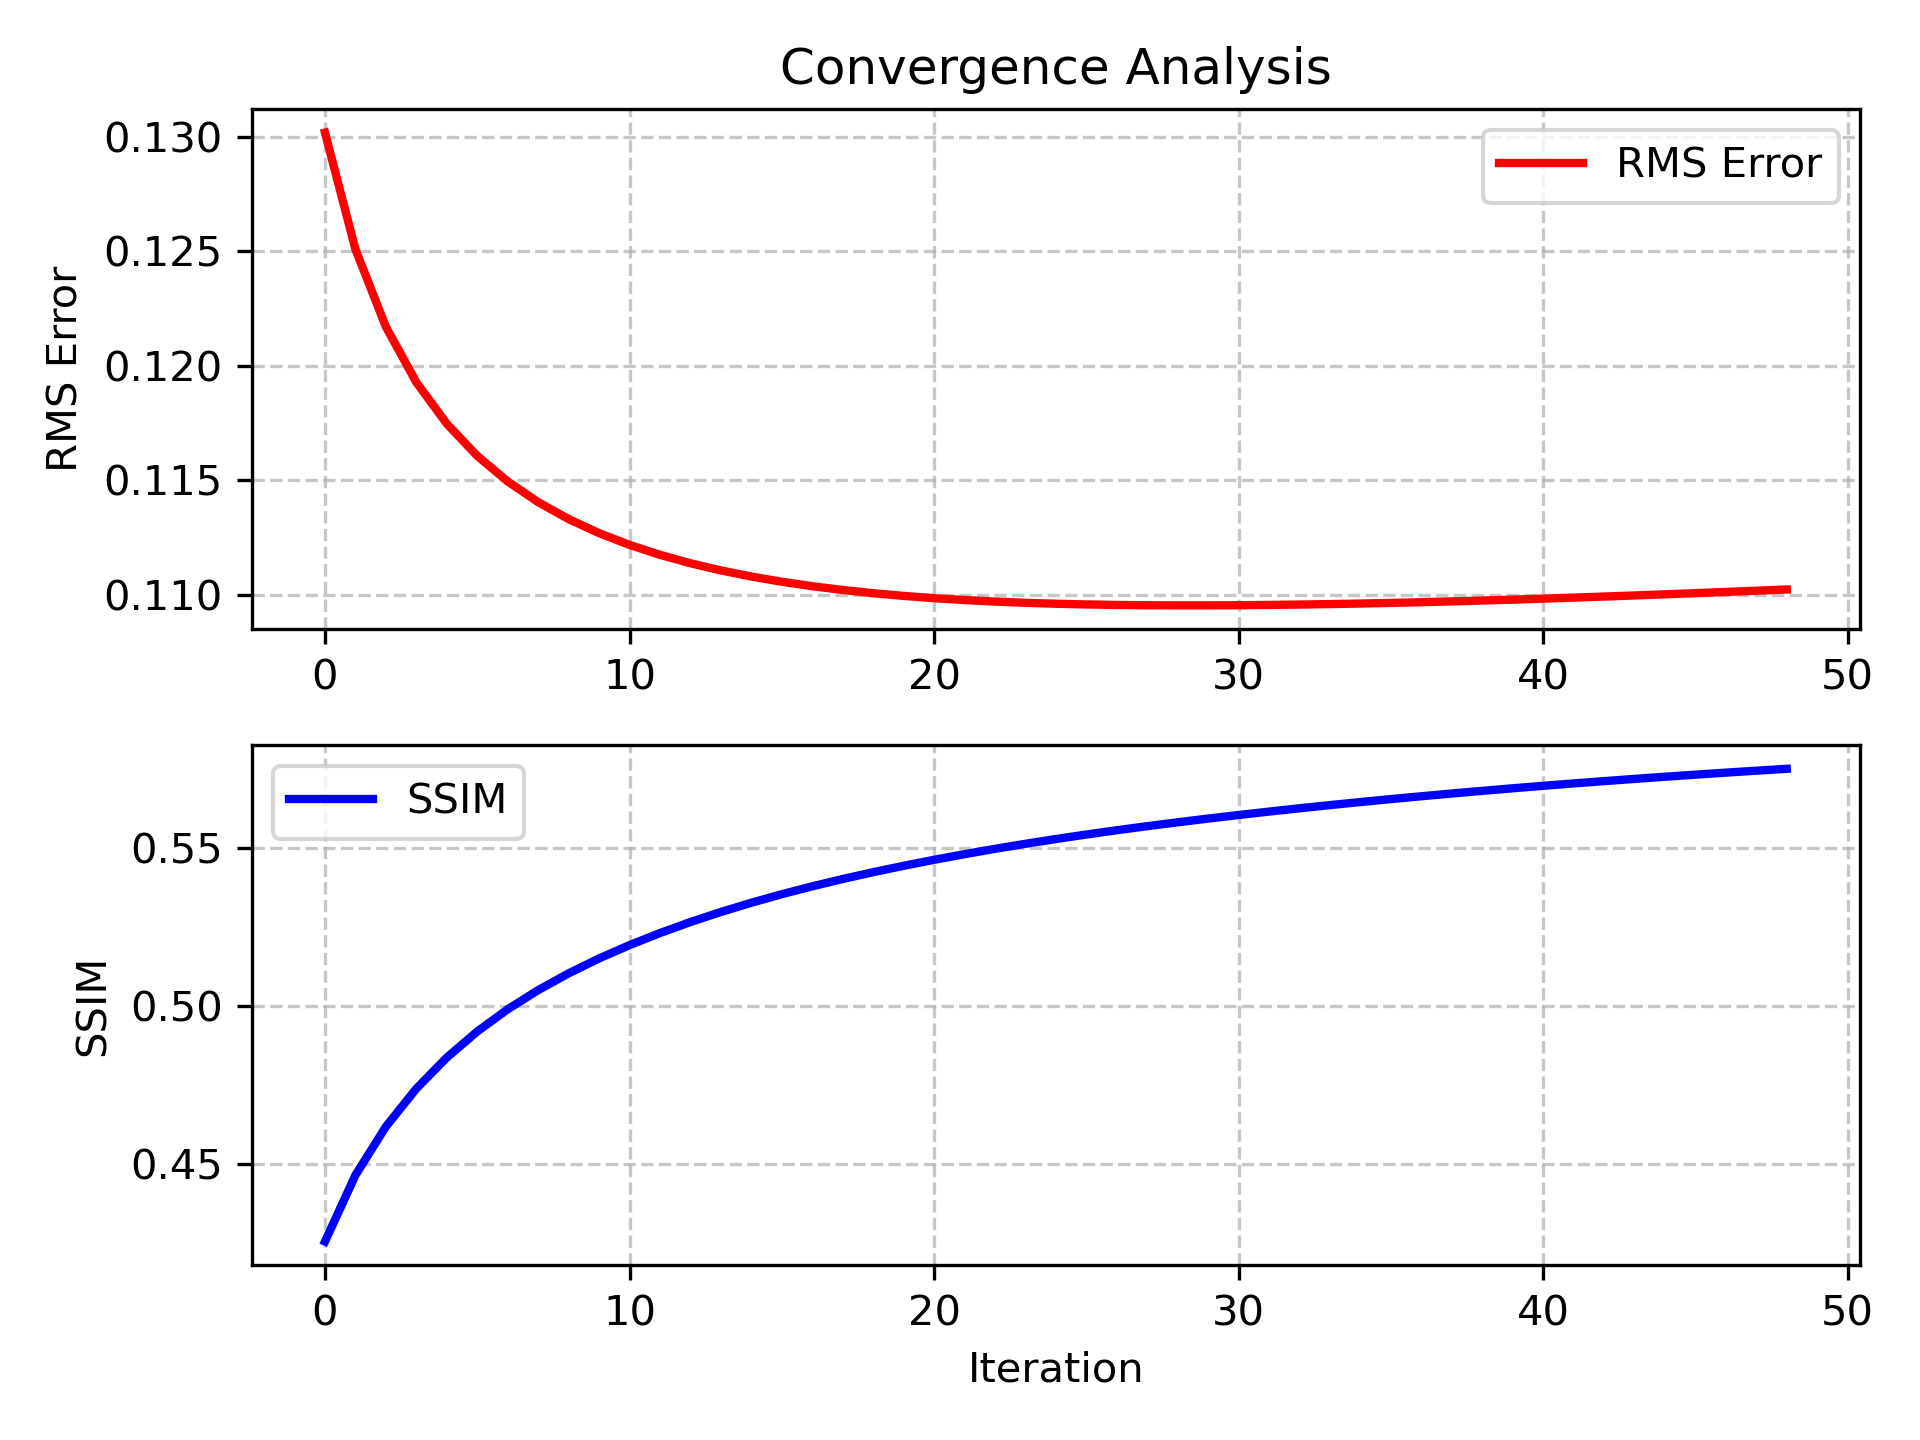
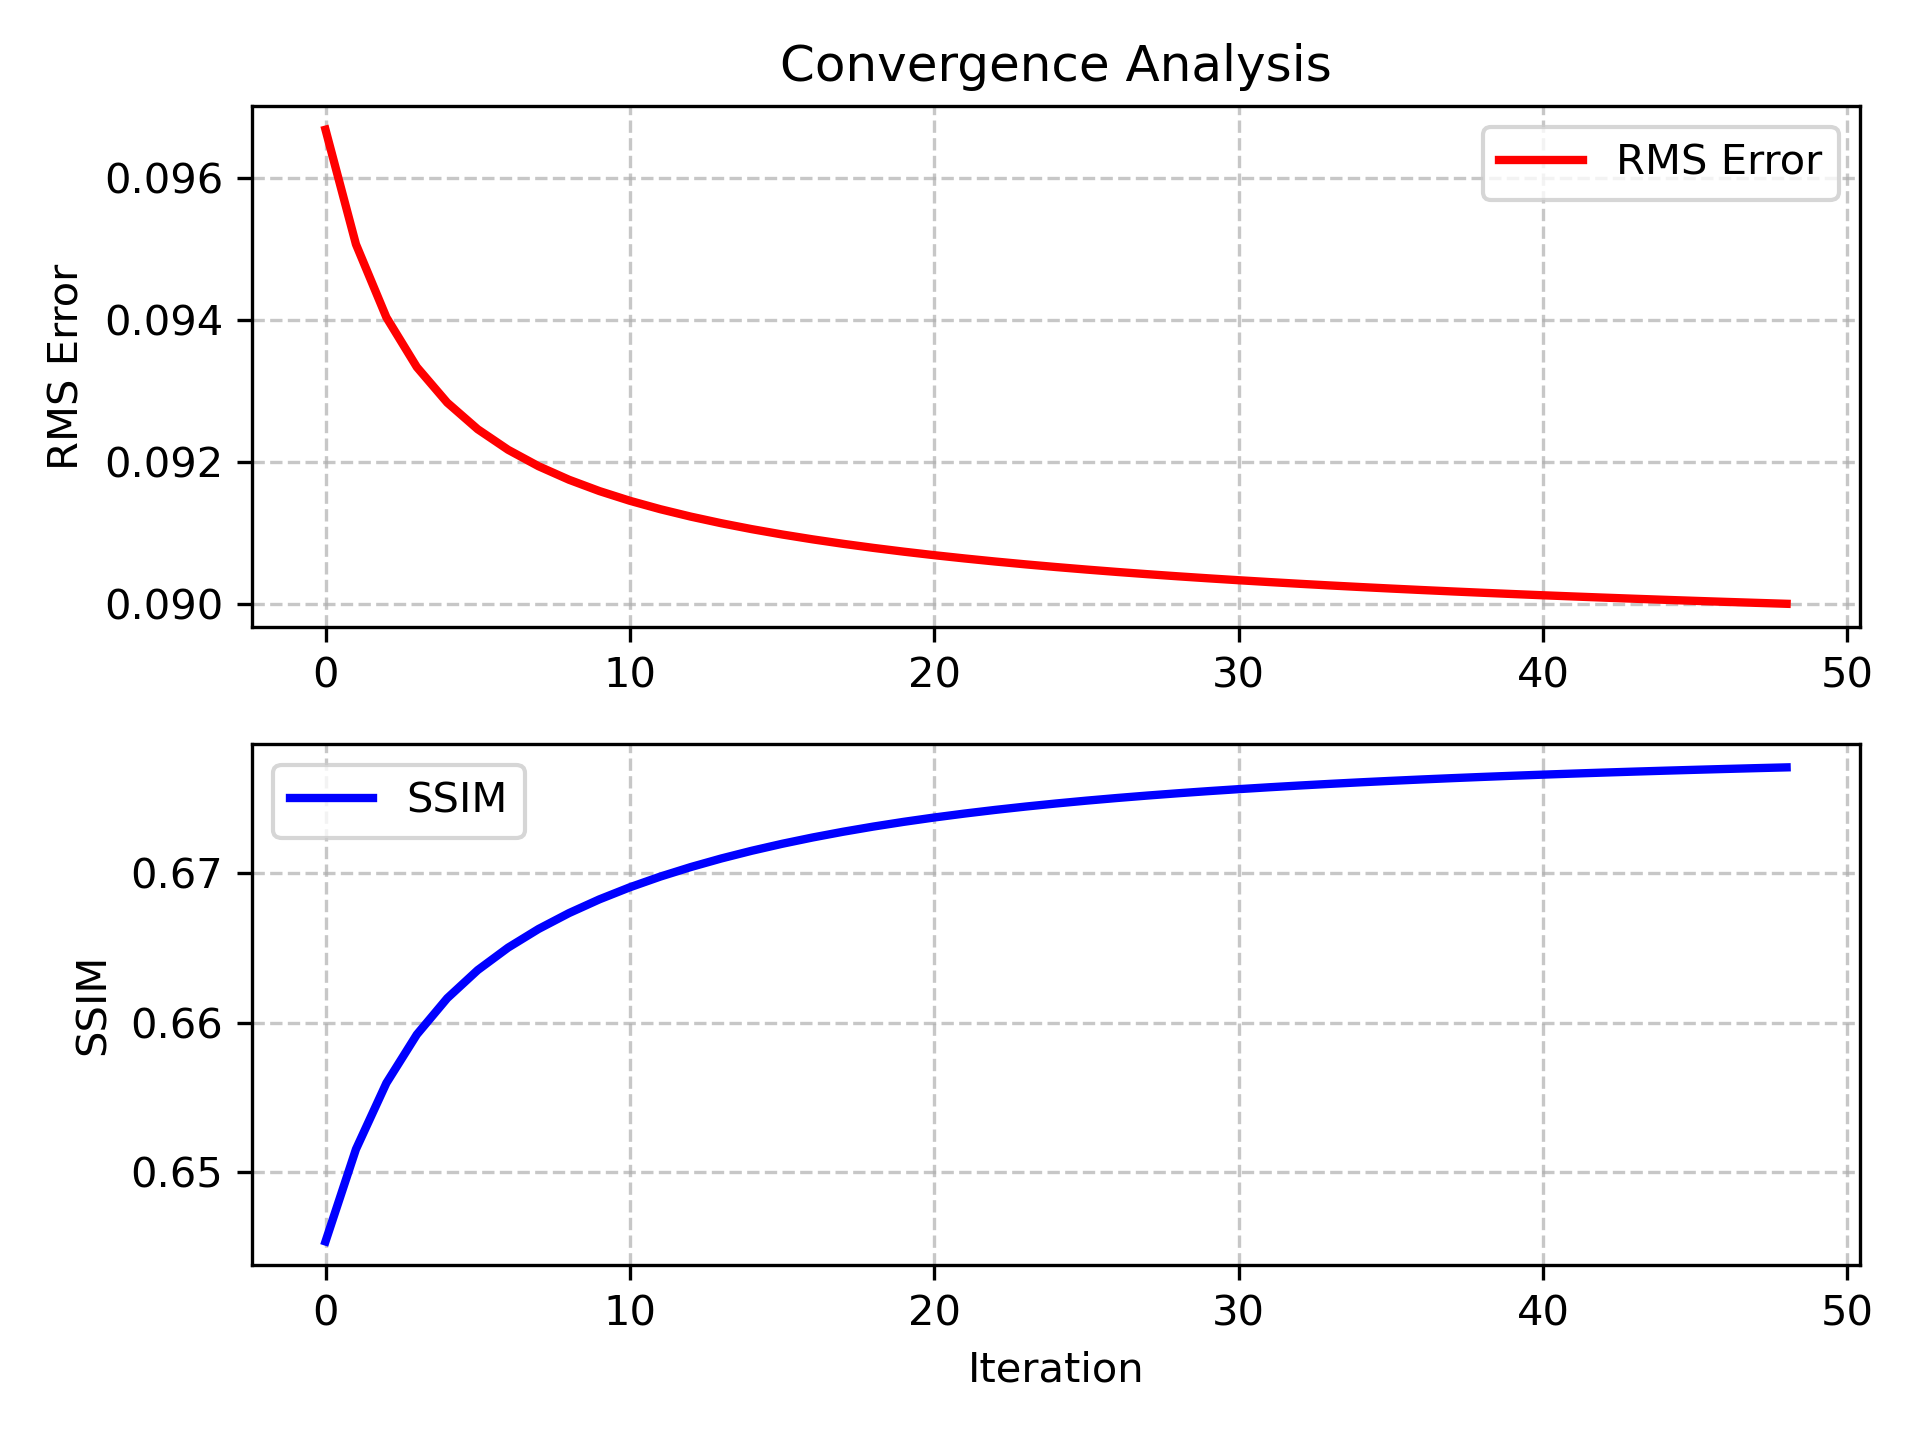
1

diff --git a/Rayleigh criterion/Rayleigh.py b/Rayleigh criterion/Rayleigh.py
@@ -1,15 +1,17 @@
 import numpy as np
 import matplotlib.pyplot as plt
-from numpy.fft import fft2, ifft2, fftshift, ifftshift
+from numpy.fft import fft2, ifft2, fftshift, ifftshift, fft, fftfreq
 from PIL import Image
 from skimage.metrics import structural_similarity as ssim
 from skimage.transform import downscale_local_mean
 
+# --- Read image and normalization ---
 def load_and_normalize_image(filepath):
     image = Image.open(filepath).convert('L')
     grayscale_data = np.array(image, dtype=np.float32)
     return (grayscale_data - grayscale_data.min()) / (grayscale_data.max() - grayscale_data.min())
 
+# --- Plot image ---
 def plot_image(amplitude,title):
     plt.figure(figsize=(6, 6))
     plt.imshow(amplitude, cmap='gray')
@@ -18,6 +20,7 @@ def plot_image(amplitude,title):
     plt.axis('off')
     plt.show()
 
+# --- Filter image ---
 def bandlimit_filter(image, pixelSize):
     N = image.shape[0]
     F = fftshift(fft2(image))
@@ -32,24 +35,30 @@ def bandlimit_filter(image, pixelSize):
     image_filtered = ifft2(ifftshift(F_filtered))
     return image_filtered
 
-def Transfer_function(W, H, distance, wavelength, pixelSize, numPixels):
+# --- Transfer function + filter evanescent wave ---
+def Transfer_function(W, H, distance, wavelength, pixelSize, numPixels, f_cut):
     FX = W / (pixelSize * numPixels)
     FY = H / (pixelSize * numPixels)
     k = 2 * np.pi / wavelength
-    square_root = np.sqrt(1 - (wavelength ** 2 * FX ** 2) - (wavelength ** 2 * FY ** 2))
-    valid_mask = (wavelength ** 2 * FX ** 2 + wavelength ** 2 * FY ** 2) <= 1
-    square_root[~valid_mask] = 0
-    temp = np.exp(1j * k * distance * square_root)
-    return temp
+    a = 1 - (wavelength ** 2 * FX ** 2) - (wavelength ** 2 * FY ** 2)
+    square_root = np.sqrt(np.clip(a, 0, None))
+    Hf = np.exp(1j * k * distance * square_root)
+    # Evanescent wave filtering
+    valid_mask = a >= 0 # Evanescent wave filtering
+    NA_mask = FX ** 2 + FY ** 2 <= f_cut ** 2 # NA limitation filtering
+    total_mask = valid_mask & NA_mask
+    Hf[~total_mask] = 0
+    return Hf
 
-def angular_spectrum_method(field, pixelSize, distance, W, H, numPixels):
+# --- Angular spectrum method ---
+def angular_spectrum_method(field, pixelSize, distance, W, H, numPixels, wavelength, f_cut):
     GT = fftshift(fft2(ifftshift(field)))
-    transfer = Transfer_function(W, H, distance, 532e-9, pixelSize, numPixels)
+    transfer = Transfer_function(W, H, distance, wavelength, pixelSize, numPixels, f_cut)
     gt_prime = fftshift(ifft2(ifftshift(GT * transfer)))
     return gt_prime
 
 # --- IPR ---
-def IPR(Measured_amplitude, distance, k_max, convergence_threshold, pixelSize, W, H, numPixels, amp_field_after):
+def IPR(Measured_amplitude, distance, k_max, convergence_threshold, pixelSize, W, H, numPixels, amp_field_after, wavelength, f_cut):
     update_phase = []
     last_field = None
     rms_errors = []
@@ -63,7 +72,7 @@ def IPR(Measured_amplitude, distance, k_max, convergence_threshold, pixelSize, W
         else:
             field1 = Measured_amplitude * np.exp(1j * update_phase[k - 1])
         # b) Backpropagation and apply constraint
-        field2 = angular_spectrum_method(field1, pixelSize, -distance, W, H, numPixels)
+        field2 = angular_spectrum_method(field1, pixelSize, -distance, W, H, numPixels, wavelength, f_cut)
         phase_field2 = np.angle(field2)  # phase
         amp_field2 = np.abs(field2)  # amplitude
         abso = -np.log(amp_field2 + 1e-8) #1e-8 to prevent 0 value
@@ -73,13 +82,13 @@ def IPR(Measured_amplitude, distance, k_max, convergence_threshold, pixelSize, W
         amp_field2 = np.exp(-abso)
         field22 = amp_field2 * np.exp(1j * phase_field2)
         # c) Forward propagation
-        field3 = angular_spectrum_method(field22, pixelSize, distance, W, H, numPixels)
+        field3 = angular_spectrum_method(field22, pixelSize, distance, W, H, numPixels, wavelength, f_cut)
         amp_field3 = np.abs(field3)
         phase_field3 = np.angle(field3)
         update_phase.append(phase_field3)
 
         # d) Backpropagate to get the image
-        field4 = angular_spectrum_method(field3, pixelSize, -distance, W, H, numPixels)
+        field4 = angular_spectrum_method(field3, pixelSize, -distance, W, H, numPixels, wavelength, f_cut)
         amp_field4 = np.abs(field4)
         last_field = field4
         # Error calculation
@@ -118,15 +127,14 @@ def IPR(Measured_amplitude, distance, k_max, convergence_threshold, pixelSize, W
 #----------------------------------------Divided Line-------------------------------------------
 
 # --- Read image ---
-Image.MAX_IMAGE_PIXELS = 200_000_000
-object = load_and_normalize_image('/Users/wangmusi/Documents/GitHub/Simulation/USAF/padded_gray_white.png')
-plot_image(object, "object")
+object = load_and_normalize_image('/Users/wangmusi/Documents/GitHub/Simulation/Rayleigh criterion/2.png')
 
 # --- Set pixel size of the image and sensor ---
-sensor_pixel_sizes = [0.4e-6, 1.6e-6]  # 0.2µm for image, 1.6µm for sensor
-numPixels_image = 10560  # The dimension of the image
+sensor_pixel_sizes = [0.2e-6, 1.2e-6]  # 0.2µm for image, 1.6µm for sensor
+numPixels_image = 1024  # The dimension of the image
 FOV = numPixels_image * sensor_pixel_sizes[0]  # Calculate image's FOV
 z2 = 0.0005  # Sample to sensor distance
+wavelength = 532e-9 # Wavelength
 
 # --- Define the spatial grid ---
 x = np.arange(numPixels_image) - numPixels_image / 2 - 1
@@ -138,18 +146,6 @@ W, H = np.meshgrid(x, y)
 # am_object_filtered = np.abs(object_filtered)
 # am_object = np.abs(object)
 
-# --- Plot the two images ---
-# plt.figure(figsize=(12, 6))
-# plt.subplot(1, 2, 1)
-# plt.imshow(am_object, cmap='gray')
-# plt.title("Original Image")
-# plt.axis('off')
-# plt.subplot(1, 2, 2)
-# plt.imshow(am_object_filtered, cmap='gray')
-# plt.title("Bandlimited Image")
-# plt.axis('off')
-# plt.show()
-
 # ---Define the sample field ---
 am = np.exp(-2 * object)
 ph0 = 3
@@ -158,36 +154,51 @@ object_field = am * np.exp(1j * ph)
 am_object_field = np.abs(object_field)
 plot_image(am_object_field,"sample field")
 
+# --- The Filtering issue due to NA limitation ---
+# This cut-off frequency is input into the transfer function
+NA = (FOV / 2) / np.sqrt((FOV / 2) ** 2 + z2 ** 2) # Numerical Aperture
+f_cut = NA / wavelength # The lateral frequency on sensor plane
+
+
 # --- Acquire the hologram ---
-hologram_field = angular_spectrum_method(object_field, sensor_pixel_sizes[0], z2, W, H, numPixels_image)
+hologram_field = angular_spectrum_method(object_field, sensor_pixel_sizes[0], z2, W, H, numPixels_image, wavelength, f_cut)
 in_hologram = np.abs(hologram_field) ** 2
 am_hologram = np.sqrt(in_hologram)
 plot_image(in_hologram,"hologram field")
 
-# --- Downsample the hologram based on the sensor pixel size ---
+# --- Calculate the dimension of sampled hologram ---
 undersample_factor = int(sensor_pixel_sizes[1] / sensor_pixel_sizes[0])
-am_undersampled_hologram = am_hologram[::undersample_factor, ::undersample_factor]
+sampled_hologram_size = am_hologram[::undersample_factor, ::undersample_factor]
 am_object_field_down = am_object_field[::undersample_factor, ::undersample_factor]
-plot_image(am_object_field_down, "undersampled object field")
-plot_image(am_undersampled_hologram,"undersampled hologram field")
-
 
 # --- Create the sensor grid ---
-numPixels_sensor = am_undersampled_hologram.shape[0]
+numPixels_sensor = sampled_hologram_size.shape[0]
 x_sen = np.arange(numPixels_sensor) - numPixels_sensor / 2 - 1
 y_sen = np.arange(numPixels_sensor) - numPixels_sensor / 2 - 1
 W_sen, H_sen = np.meshgrid(x_sen, y_sen)
 
+# --- Pixel aperture effect ---
+m = W / (numPixels_image * sensor_pixel_sizes[0])
+n = H / (numPixels_image * sensor_pixel_sizes[0])
+FX, FY = np.meshgrid(m, n)
+Pixel_TF = np.sinc(FX * sensor_pixel_sizes[1]) * np.sinc(FY * sensor_pixel_sizes[1])
+hologram_fft = fftshift(fft2(ifftshift(hologram_field)))
+hologram_fft_window = hologram_fft * Pixel_TF
+hologram_field_filtered = fftshift(ifft2(ifftshift(hologram_fft_window)))
+center = np.arange(undersample_factor//2, numPixels_image, undersample_factor)
+Sampled_hologram_field = hologram_field_filtered[center[:,None], center]
+Sampled_hologram = Sampled_hologram_field ** 2
+plot_image(Sampled_hologram,"hologram sampled")
+
 # --- Adding noise ---
-# At first, I will just consider the white Guassian noise. If nothing wrong then I will go deeper.
-scaling_factor = 8000 # Assume full well capacity is 8000e-
-ideal_intensity = (am_undersampled_hologram ** 2) * scaling_factor # Transform intensity to the scale of photons or electrons
-noise_electrons = 0 # Choose the number of noise electrons
-noise_standard = noise_electrons / scaling_factor # Transform noise form scale of electrons to scale of intensity
-white_Gaussian_noise = np.random.normal(0, noise_standard, ideal_intensity.shape) # Simulate the noise
-am_noise = np.abs(white_Gaussian_noise)
-# plot_image(am_noise)
-am_hologram_with_noise = am_undersampled_hologram + white_Gaussian_noise
+# scaling_factor = 8000 # Assume full well capacity is 8000e-
+# ideal_intensity = (am_undersampled_hologram ** 2) * scaling_factor # Transform intensity to the scale of photons or electrons
+# noise_electrons = 0 # Choose the number of noise electrons
+# noise_standard = noise_electrons / scaling_factor # Transform noise form scale of electrons to scale of intensity
+# white_Gaussian_noise = np.random.normal(0, noise_standard, ideal_intensity.shape) # Simulate the noise
+# am_noise = np.abs(white_Gaussian_noise)
+# # plot_image(am_noise)
+# am_hologram_with_noise = am_undersampled_hologram + white_Gaussian_noise
 
 # --- Calculate SNR ---
 # noise_power = np.mean(white_Gaussian_noise ** 2)
@@ -196,11 +207,39 @@ am_hologram_with_noise = am_undersampled_hologram + white_Gaussian_noise
 
 
 # --- Reconstruction based on IPR algo ---
-rec_field, rms_errors, ssim_errors = IPR(am_hologram_with_noise, z2, 50, 1.5e-20, sensor_pixel_sizes[1], W_sen, H_sen, numPixels_sensor, am_object_field_down)
+rec_field, rms_errors, ssim_errors = IPR(Sampled_hologram, z2, 50, 1.5e-20, sensor_pixel_sizes[1], W_sen, H_sen, numPixels_sensor, am_object_field_down, wavelength, f_cut)
 am_rec_field = np.abs(rec_field)
 plot_image(am_rec_field, "rec field")
-# print("SNR is %f dB" % SNR)
 
+# --- PSF ---
+y_index = 86
+PSF_pre = am_rec_field[y_index, :]
+PSF = np.abs(PSF_pre) ** 2
+x_axis = x_sen
+# plot
+plt.figure(figsize=(8,4))
+plt.plot(x_axis, PSF, linewidth=2)
+plt.xlabel('x')
+plt.ylabel('Intensity')
+plt.title(f'PSF')
+plt.grid(True, linestyle='--', alpha=0.7)
+plt.tight_layout()
+plt.show()
 
+# # --- MTF ---
+# Np = PSF.size
+# print(Np)
+# OTF1d = fftshift(fft(ifftshift(PSF)))         # 1D OTF
+# MTF1d = np.abs(OTF1d)
+# MTF1d /= MTF1d.max()
+# F_x = x_axis / (Np * sensor_pixel_sizes[1])
+# plt.figure(figsize=(6,4))
+# plt.plot(F_x, MTF1d, linewidth=2)
+# plt.xlabel('Spatial frequency (1/m)')
+# plt.ylabel('MTF')
+# plt.title('1D MTF from PSF profile')
+# plt.grid(True, linestyle='--', alpha=0.7)
+# plt.tight_layout()
+# plt.show()
 
 

diff --git a/trash2.py b/trash2.py
@@ -1,26 +1,34 @@
-import numpy as np
-import matplotlib.pyplot as plt
+from PIL import Image, ImageDraw
 
-# --- 参数设定 ---
-numPixels = 1024              # 输出图像分辨率 1024×1024
-pixel_size = 0.4e-6           # 新的像素大小：0.4 μm
+# 创建一个 1024x1024 的白色画布
+img = Image.new('RGB', (1024, 1024), 'white')
+draw = ImageDraw.Draw(img)
 
-# 构造像素坐标索引
-x = np.arange(numPixels) - numPixels/2
-# 物理坐标（米），直接用新的 pixel_size
-x_phys = x * pixel_size
+# 圆的参数
+radius = 5       # 半径 = 5 像素（直径 = 10 像素）
+spacing = 14     # 两个圆边缘间距 = 50 像素
 
-# --- 要生成的光栅周期列表（单位：米） ---
-periods = [4e-6, 10e-6, 15e-6, 20e-6, 25e-6, 30e-6]
+# 计算水平居中时两个圆心的坐标
+total_width = 2 * (2 * radius) + spacing
+left_edge = (1024 - total_width) / 2
+center_x1 = left_edge + radius
+center_x2 = center_x1 + 2 * radius + spacing
+center_y = 1024 / 2
 
-# --- 逐个生成并保存 ---
-for P in periods:
-    f = 1.0 / P                                # 物理频率（cycles/m），保持不变
-    am_1d = 0.5 + 0.5 * np.sin(2 * np.pi * f * x_phys)
-    am_2d = np.tile(am_1d, (numPixels, 1))    # 复制成二维
+# 画第一个圆
+draw.ellipse(
+    (center_x1 - radius, center_y - radius,
+     center_x1 + radius, center_y + radius),
+    fill='black'
+)
 
-    # 文件名仍用物理周期标注（微米）
-    fname = f'grating_{int(P*1e6):d}um.png'
+# 画第二个圆
+draw.ellipse(
+    (center_x2 - radius, center_y - radius,
+     center_x2 + radius, center_y + radius),
+    fill='black'
+)
 
-    # 直接保存，无标题无坐标轴，输出 1024×1024
-    plt.imsave(fname, am_2d, cmap='gray', vmin=0, vmax=1)
+# 保存为 PNG 文件
+img.save('2,8.png')
+print("图片已保存为 5.png")
